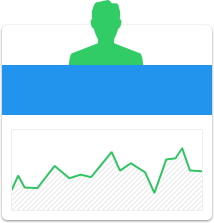
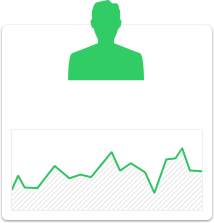
adjusting ribbons

Changed region(s): [[0.0, 0.2691, 1.0, 0.5381]]

diff --git a/css/styles.css b/css/styles.css
@@ -2,6 +2,10 @@ h1, h2, h3, h4, h5, h6, body, a{
     font-family:"Myriad Pro";
 }
 
+a{
+    text-decoration:none;
+}
+
 h1{
     font-style:bold;
     font-weight:600;
@@ -185,16 +189,19 @@ h7{
 
 
 .section {
-    background:#none;
+    background:none;
 }
 .layer {
-    background:#dddddd;
+    background:none;
 }
 .section:hover img {
     border:2px solid #333;
+    text-decoration: none;
 }
 .section:hover .layer {
     border:2px solid #F90;
+    text-decoration: none;
+    
 }
 
 .circle{
@@ -401,37 +408,81 @@ input[type="checkbox"]:checked + label span {
     padding-bottom:40px;
     bottom-border:none;
 }
+.contacts-display{
+    display:block;
+}
 .contacts{
-    margin-left:20px;
+    display:inline-block;
+    left:20px;
 }
 
 .customers{
-    margin-right:-20px;
+    display:block;
+    left:20px;
+}
+.ribbon-display{
+    display:block;
 }
 
-.ribbon:before, .ribbon:after {
+.ribbon {
+   width: 210px;
+   height: 50px;
+   display:inline-block;
+   position:absolute;
+   left:17px;
+   top:60px;
+   font-size: 14px!important;
+   background: #2497f4;
+   background: -webkit-gradient(linear, left top, left bottom, from(#2497f4), to(#2497f4));
+   background: -webkit-linear-gradient(top, #2497f4, #2497f4);
+   background: -moz-linear-gradient(top, #2497f4, #2497f4);
+   background: -ms-linear-gradient(top, #2497f4, #2497f4);
+   background: -o-linear-gradient(top, #2497f4, #2497f4);
+   background-image: -ms-linear-gradient(top, #2497f4 0%, #2497f4 100%);
+   -webkit-box-shadow: rgba(000,000,000,0.3) 0 0px 0px;
+   -moz-box-shadow: rgba(000,000,000,0.3) 0 0px 0px;
+   box-shadow: rgba(000,000,000,0.3) 0 0px 0px;
+   font-family: 'Helvetica Neue',Helvetica, sans-serif;
+   }
+.ribbon h1 {
+   font-size: 9px!important;
+   color: #2497f4;
+   text-shadow: #2497f4 0 1px 0;
+   margin:0px;
+   }
+
+
+.rib:before, .rib:after {
    content: '';
+   display:inline-block;
    position: absolute;
-   display: block;
-   bottom: 127px;
    border: 1.2em solid #2394ee;
    z-index: -1;
+   top:75px;
    }
-.ribbon:before {
-   left: -4px;
+.rib:before {
+    display:inline-block;
+    position:absolute;
+   left: -10px;
    border-right-width: 1.1em;
    border-left-color: transparent;
    -webkit-box-shadow: rgba(000,000,000,0.4) 1px 1px 1px;
    -moz-box-shadow: rgba(000,000,000,0.4) 1px 1px 1px;
    box-shadow: rgba(000,000,000,0.4) 1px 1px 1px;
+   top:70px;
+
    }
-.ribbon:after {
-   right: 37px;
+.rib:after {
+   display:inline-block;
+   position:absolute;
+   right: 30px;
    border-left-width: 1.1em;
    border-right-color: transparent;
    -webkit-box-shadow: rgba(000,000,000,0.4) -1px 1px 1px;
    -moz-box-shadow: rgba(000,000,000,0.4) -1px 1px 1px;
    box-shadow: rgba(000,000,000,0.4) -1px 1px 1px;
+   top:70px;
+
    }
 
 .contacts-head{

diff --git a/index.html b/index.html
@@ -237,27 +237,25 @@
 	  
 	  <!--End analytics-->
 	  <!--LineGraph-->
-	  <div class="col-xs-12 col-md-8 line-graph">
-	    <div class="col-xs-12 col-md-12">
+	   <div class="col-xs-12 col-md-8 line-graph">
+	    <div class="col-xs-12 col-md-12 contacts-display">
 	      <div class="col-xs-12 col-md-6 contacts">
 		<p class="contacts-head">75 CONTACTS</p>
 		<p class="contacts-deck">4 INFLUENCES</p>
-		<img src="css/images/contacts.png" alt="">  
-		<div class="ribbon">
-		  <div class="ribbon-stitches-top"></div>
-		    <p class="ribbon-text"></p>
-		  <div class="ribbon-stitches-bottom"></div>
-		</div>
+		<img src="css/images/contacts.png" alt="">
+		  <div class="ribbon-display">
+		    <div class="ribbon"></div>
+		    <div class="rib"></div>
+		  </div>
 	      </div>
 	      <div class="col-xs-12 col-md-6 customers">
 		<p class="customers-head">17 CUSTOMERS</p>
 		<p class="customers-deck">0 INFLUENCES</p>
 		<img src="css/images/customers.png" alt="">  
-		<div class="ribbon">
-		  <div class="ribbon-stitches-top"></div>
-		    <p class="ribbon-text"></p>
-		  <div class="ribbon-stitches-bottom"></div>
-		</div>
+		  <div class="ribbon-display">
+		    <div class="ribbon"></div>
+		    <div class="rib"></div>
+		  </div>
 	      </div>
 	    </div>
 	  </div>
